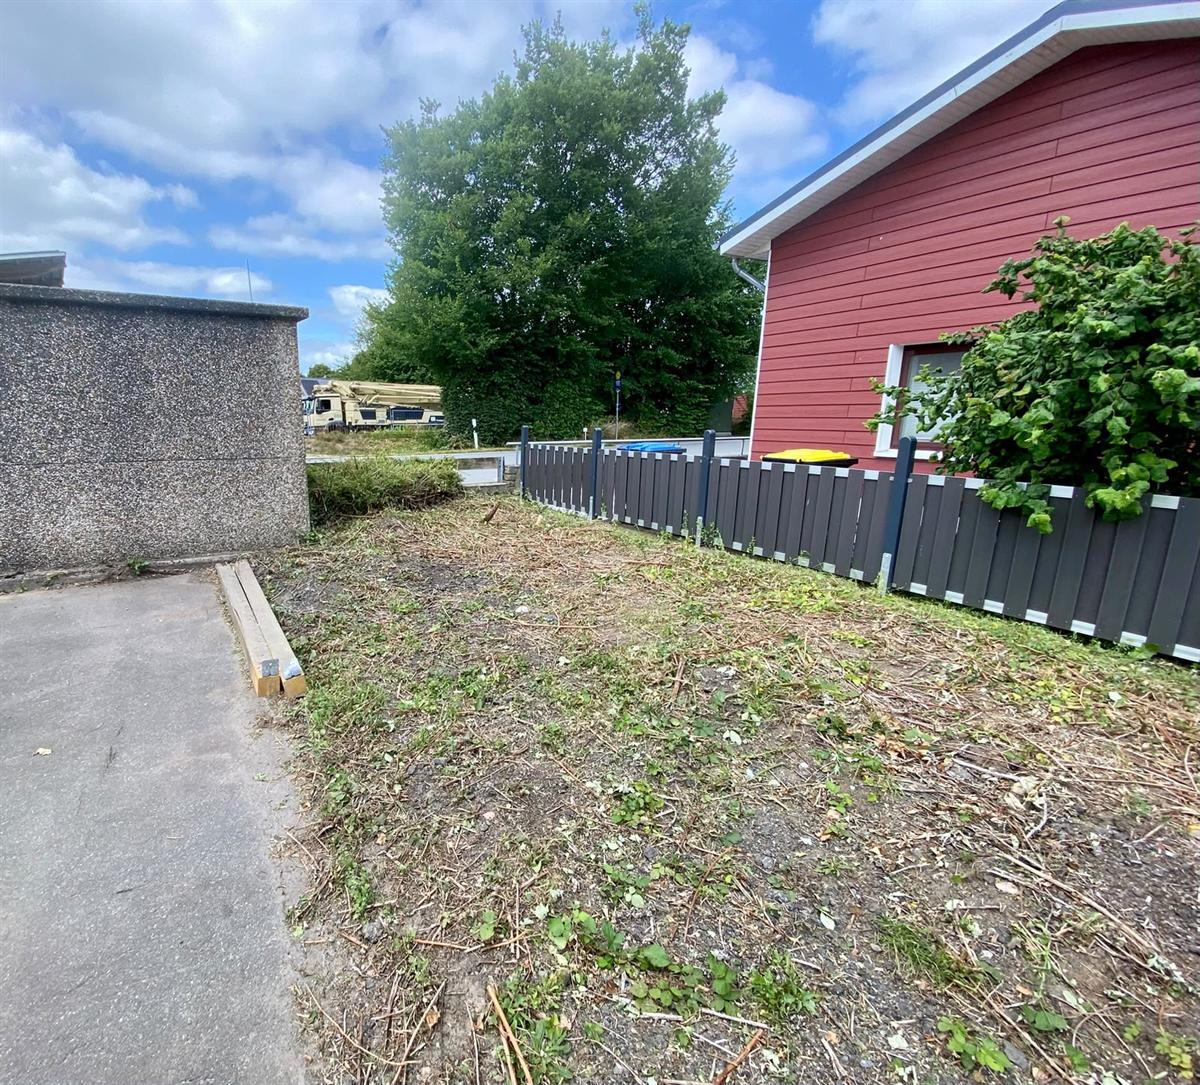
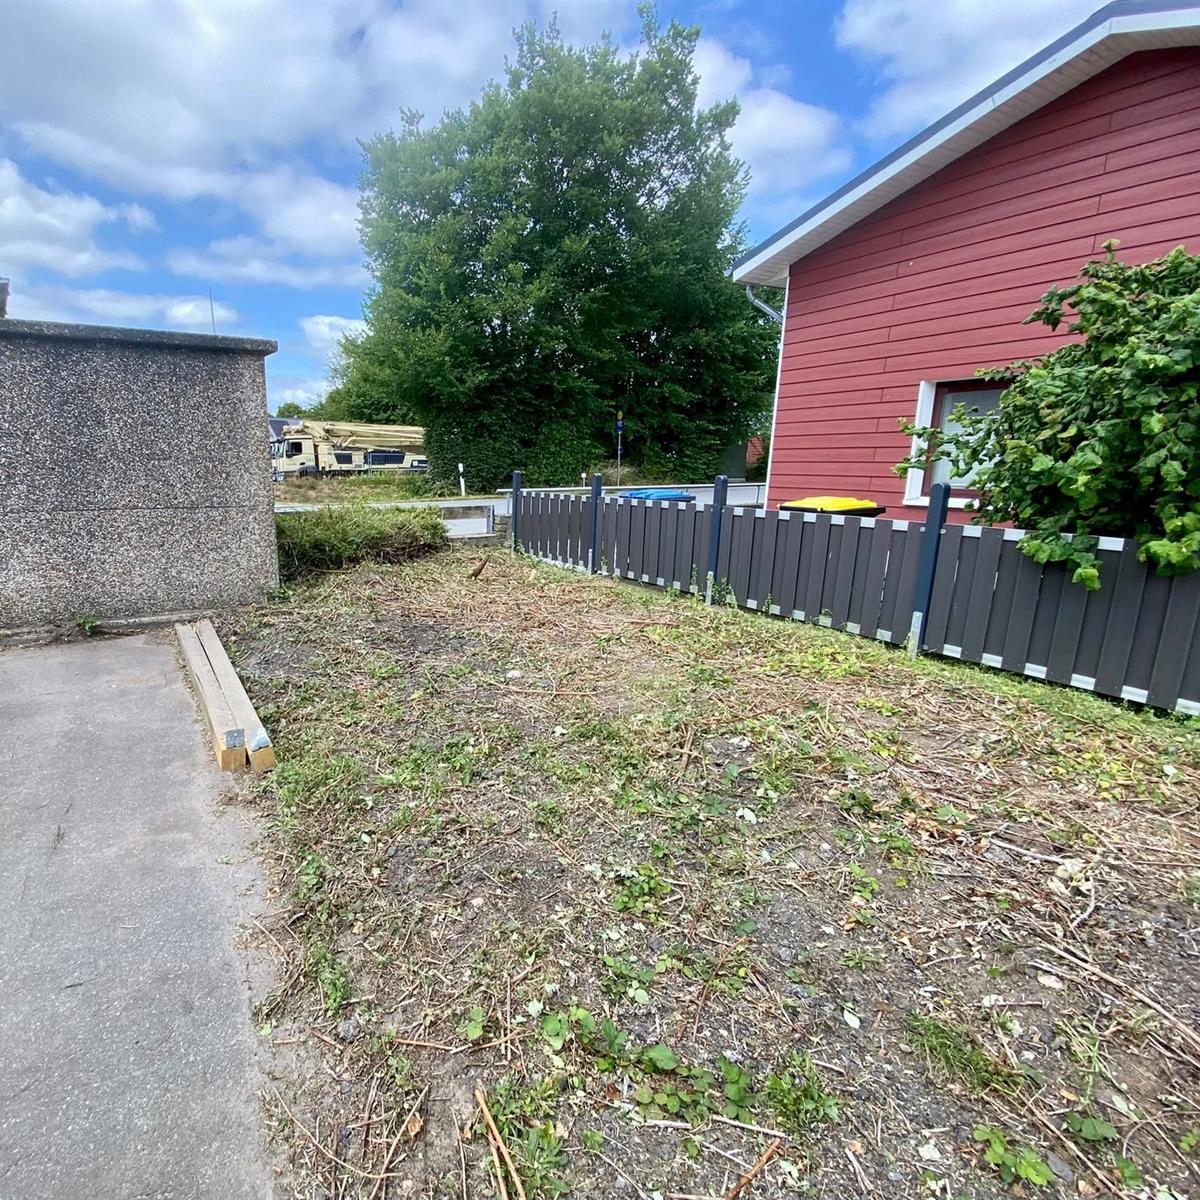
Add files via upload

diff --git a/index.html b/index.html
@@ -350,11 +350,10 @@ section[id] { scroll-margin-top: calc(var(--header-h) + 8px); }
   .vergleiche { grid-template-columns: repeat(3, 1fr); gap: 48px 24px; }
   .vergleich--gross { grid-column: 1 / -1; }
 }
-/* Zwei ganze Bilder nebeneinander. Spaltenbreiten im Verhältnis der Bildformate
-   (0,75 Hochformat zu 1,106), damit beide Bilder gleich hoch sind. */
+/* Zwei gleich große, quadratische Bilder nebeneinander (am Handy untereinander). */
 .paar { display: grid; gap: 12px; grid-template-columns: 1fr; }
 @media (min-width: 640px) {
-  .paar { grid-template-columns: 75fr 110.6fr; }
+  .paar { grid-template-columns: 1fr 1fr; }
 }
 .paar__bild {
   position: relative;
@@ -866,15 +865,15 @@ html:not(.js) .recht__schliessen { display: none; }
       </div>
 
       <div class="vergleiche">
-        <!-- Ganze Bilder nebeneinander statt Regler, weil Vorher (Hochformat) und Nachher (fast quadratisch) unterschiedliche Formate haben. -->
+        <!-- Zwei gleich große, quadratische Bilder nebeneinander statt Regler. -->
         <figure class="vergleich vergleich--gross">
           <div class="paar">
             <div class="paar__bild">
-              <img src="wildwuchs-vorher.jpg" alt="Vorher: Fläche zwischen Garage und rotem Holzhaus mit Gestrüpp und Wildwuchs zugewachsen" width="900" height="1200" loading="lazy" decoding="async">
+              <img src="wildwuchs-vorher.jpg" alt="Vorher: Fläche zwischen Garage und rotem Holzhaus mit Gestrüpp und Wildwuchs zugewachsen" width="1200" height="1200" loading="lazy" decoding="async">
               <span class="compare__etikett compare__etikett--vorher" aria-hidden="true">Vorher</span>
             </div>
             <div class="paar__bild">
-              <img src="wildwuchs-nachher.jpg" alt="Nachher: Fläche zwischen Garage und rotem Holzhaus komplett freigeräumt" width="1200" height="1085" loading="lazy" decoding="async">
+              <img src="wildwuchs-nachher.jpg" alt="Nachher: Fläche zwischen Garage und rotem Holzhaus komplett freigeräumt" width="1200" height="1200" loading="lazy" decoding="async">
               <span class="compare__etikett compare__etikett--nachher" aria-hidden="true">Nachher</span>
             </div>
           </div>
